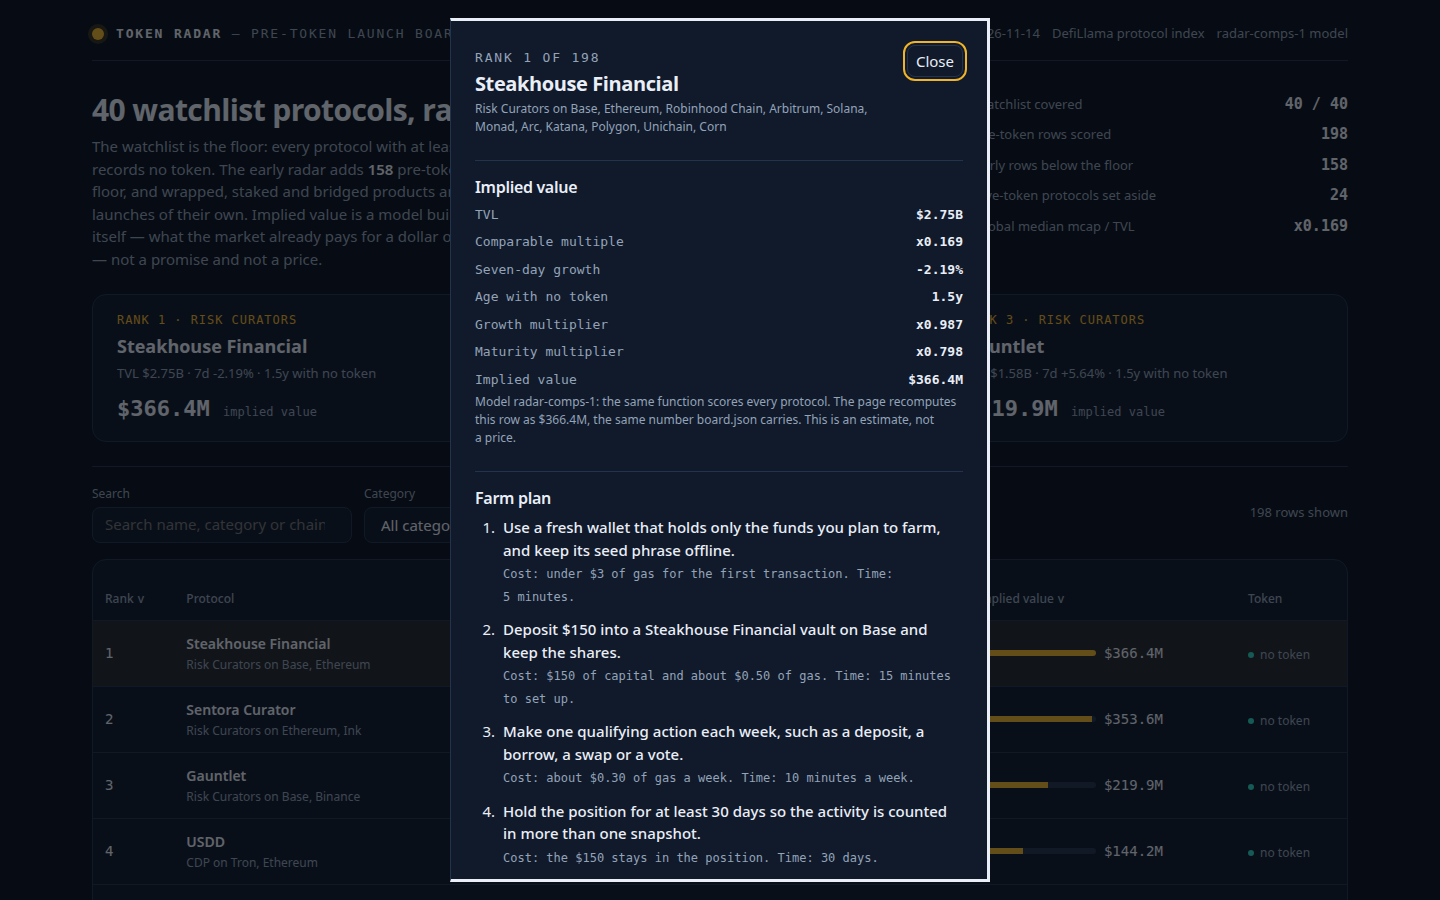
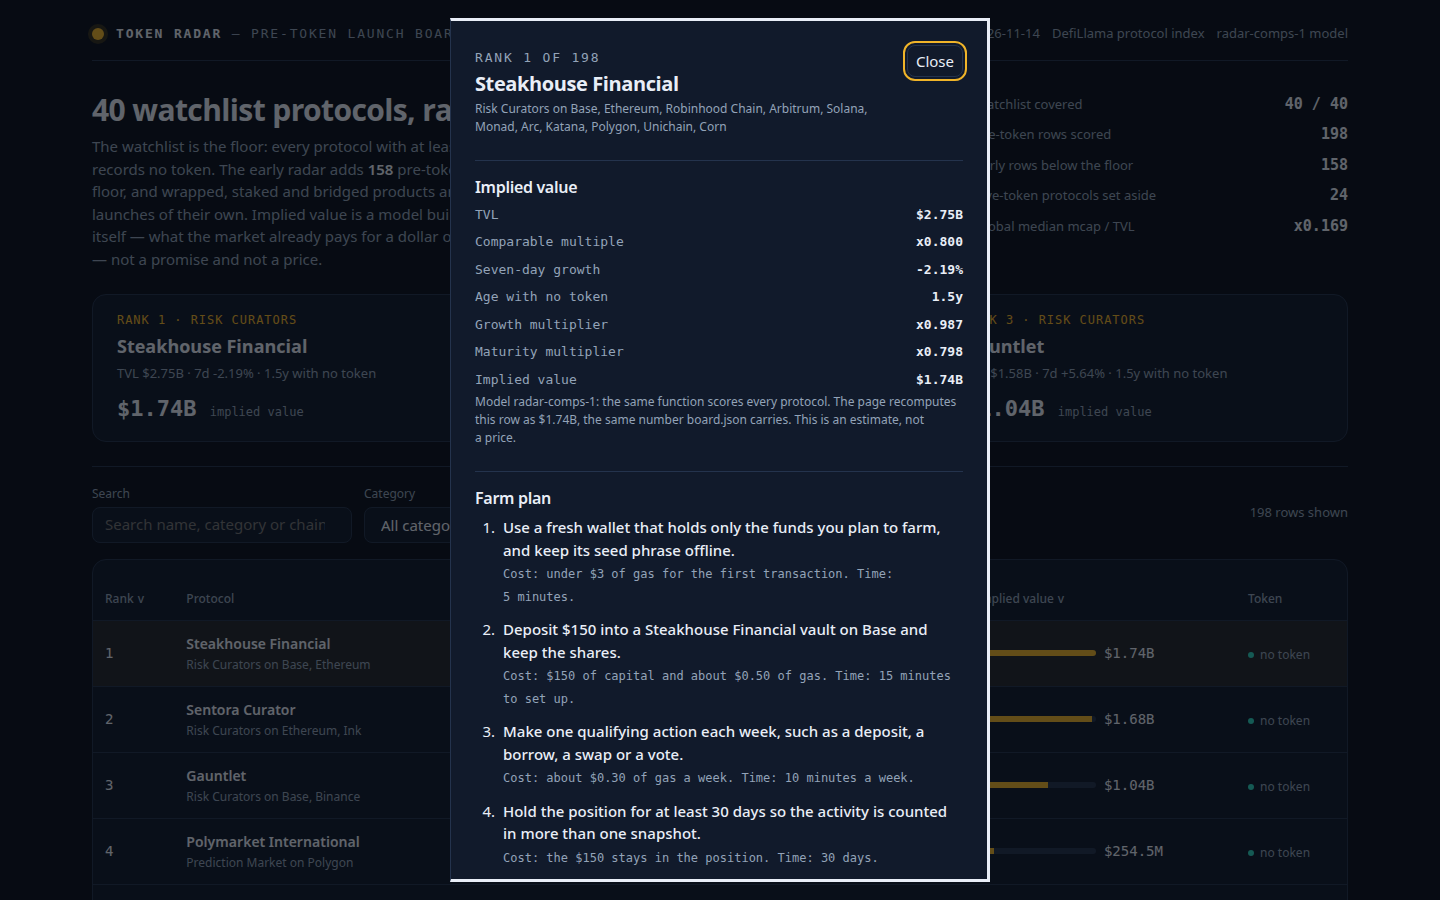
Radar v1.1: thin-category depth shrink in model, Copy farm plan button in dashboard, fresh detail screenshot

diff --git a/dashboard/app.js b/dashboard/app.js
@@ -1,7 +1,7 @@
 // Token Radar's dashboard. It reads window.RADAR (written beside dashboard/ by main.ts) and
 // renders the ranked board, a filterable table, a per-protocol detail drawer with the model's own
 // inputs and the protocol's farm plan, and the comparables the model was read from. No network:
-// every byte it shows is in data.js.
+// every byte it shows is in data.js. The drawer's farm plan can be copied as plain text.
 //
 // The model in one function: the page recomputes a row from the snapshot figures and checks the
 // number board.json carries, so the page's code and the board's data are visibly the same
@@ -124,6 +124,33 @@
       { text: "Before you withdraw, open the protocol's own points or rewards page and claim only from the link it publishes.", cost: 'no fee to check, and never pay to claim', time: '10 minutes' },
       { text: 'Write the wallet, the dates and every transaction in a farm log so you can repeat the position or unwind it.', cost: 'nothing but the log', time: '5 minutes' }
     ].map(stepText);
+  }
+
+  // Copy a farm plan as plain text: the clipboard API where it exists, a hidden textarea
+  // and execCommand where it does not. No network, no new dependency.
+  function copyText(text, button) {
+    function done() {
+      var label = button.textContent;
+      button.textContent = 'Copied';
+      setTimeout(function () { button.textContent = label; }, 1500);
+    }
+    function fallback() {
+      var area = document.createElement('textarea');
+      area.value = text;
+      area.setAttribute('readonly', '');
+      area.style.position = 'fixed';
+      area.style.opacity = '0';
+      document.body.appendChild(area);
+      area.select();
+      try { document.execCommand('copy'); } catch (e) { /* the list stays selectable */ }
+      document.body.removeChild(area);
+      done();
+    }
+    if (navigator.clipboard && navigator.clipboard.writeText) {
+      navigator.clipboard.writeText(text).then(done, fallback);
+    } else {
+      fallback();
+    }
   }
 
   // --- state -------------------------------------------------------------------------------
@@ -340,7 +367,7 @@
         document.createElement('br'),
         document.createTextNode('  maturity = ' + m.maturity_floor + ' + min(age_days, ' + m.maturity_days + ') / ' + m.maturity_days + ' x ' + m.maturity_range + '   (age unknown: ' + m.unknown_age_days + ' days)')
       ),
-      el('p', { class: 'sub', text: 'The comparable is what the market already pays for a dollar of TVL in that category, read off the snapshot\u2019s own live-token protocols (a category with fewer than ' + m.min_category_sample + ' live examples falls back to the global median). Age is the time since the protocol was first listed, the best record of how long it has run with no token. Wrapped, staked and bridged products are excluded from the ranking, and live-token protocols are set aside with their market caps shown.' }),
+      el('p', { class: 'sub', text: 'The comparable is what the market already pays for a dollar of TVL in that category, read off the snapshot\u2019s own live-token protocols (a category with fewer than ' + m.min_category_sample + ' live examples keeps its own median shrunk ' + Math.round(m.depth_shrink * 100) + '% toward the global median, and a category with no live example at all falls back to the global median). Age is the time since the protocol was first listed, the best record of how long it has run with no token. Wrapped, staked and bridged products are excluded from the ranking, and live-token protocols are set aside with their market caps shown.' }),
       el('div', { class: 'comps' }, top.map(function (c) {
         return el('div', null, el('span', { text: c.category + ' (' + c.live_count + ')' }), el('b', { text: fmtMult(c.median_multiple) }));
       }))
@@ -358,6 +385,10 @@
     dialog.textContent = '';
     var steps = farmSteps(row);
     var recomputed = impliedOf(row, DATA.model);
+    var planText = row.name + ' farm plan (Token Radar, snapshot ' + DATA.as_of + ')\n' +
+      steps.map(function (s, i) { return (i + 1) + '. ' + s; }).join('\n');
+    var copyButton = el('button', { class: 'button', type: 'button', text: 'Copy farm plan' });
+    copyButton.addEventListener('click', function () { copyText(planText, copyButton); });
     dialog.appendChild(el('div', { class: 'detail-head' },
       el('div', null,
         el('span', { class: 'brand-name', text: 'Rank ' + row.rank + ' of ' + DATA.board_size }),
@@ -386,7 +417,8 @@
         var action = at >= 0 ? s.slice(0, at) : s;
         var tail = at >= 0 ? s.slice(at + 1) : '';
         return el('li', null, el('b', { text: action }), el('span', { class: 'cost', text: tail }));
-      }))
+      })),
+      copyButton
     ));
     if (typeof dialog.showModal === 'function') {
       if (!dialog.open) dialog.showModal();

diff --git a/lib/model.ts b/lib/model.ts
@@ -14,7 +14,9 @@
 // itself supplies:
 //
 //   comparable  = median(mcap_usd / tvl_usd) over live-token protocols in the same category
-//                 (at least 3 of them, else the global median over all live-token protocols)
+//                 (at least 3 of them); a thinner category keeps its own median but shrunk
+//                 25% toward the global median, and a category with no live example at all
+//                 falls back to the global median over all live-token protocols
 //   multiple    = clamp(0.5 * comparable + 0.5 * global_median, 0.05, 0.80)
 //   growth      = clamp(change_7d, -50, 150) per cent
 //   growthMult  = 1 + (growth / 100) * 0.6
@@ -22,10 +24,12 @@
 //   implied     = max(1, round(tvl_usd * multiple * growthMult * maturity))
 //
 // The multiple is what the market already pays for a dollar of TVL in that line of business,
-// read off the snapshot's own live-token protocols; a category with too few live examples falls
-// back to the global median. No protocol name is ever special-cased: the same function scores
-// every row, and the dashboard shows each row's own multiple, growth and maturity so the number
-// can be checked by hand.
+// read off the snapshot's own live-token protocols; a category with too few live examples no
+// longer falls back to the global median outright -- one or two live protocols are still a
+// signal, just a thin one, so the model trusts their median only three quarters of the way
+// and pulls the rest toward the global median. No protocol name is ever special-cased: the
+// same function scores every row, and the dashboard shows each row's own multiple, growth and
+// maturity so the number can be checked by hand.
 
 /** The snapshot's protocol entry: exactly the ten fields the sealed input carries. */
 export interface SnapshotProtocol {
@@ -63,6 +67,7 @@ export interface ModelConstants {
   multiple_cap: number;
   category_blend: number;
   min_category_sample: number;
+  depth_shrink: number;
 }
 
 export const MODEL: ModelConstants = {
@@ -77,6 +82,7 @@ export const MODEL: ModelConstants = {
   multiple_cap: 0.8,
   category_blend: 0.5,
   min_category_sample: 3,
+  depth_shrink: 0.25,
 };
 
 /** The model's version label: the dashboard names it. */
@@ -264,8 +270,17 @@ export function comparableMultiple(
   model: ModelConstants,
 ): number {
   const entry = category !== null ? comps.byCategory.get(category) : undefined;
-  // A category with too few live examples is not a comparable: fall back to the global median.
-  const sample = entry !== undefined && entry.count >= model.min_category_sample ? entry.median : comps.global;
+  // A category with no live example at all falls back to the global median. A thin
+  // category (fewer than min_category_sample live examples) keeps its own median but
+  // shrunk depth_shrink of the way toward the global one: one or two live protocols
+  // are a signal, just a thin one, so the model trusts them only most of the way.
+  let sample = comps.global;
+  if (entry !== undefined) {
+    sample =
+      entry.count >= model.min_category_sample
+        ? entry.median
+        : comps.global + (1 - model.depth_shrink) * (entry.median - comps.global);
+  }
   const base = model.category_blend * sample + (1 - model.category_blend) * comps.global;
   return Math.min(model.multiple_cap, Math.max(model.multiple_floor, base));
 }
